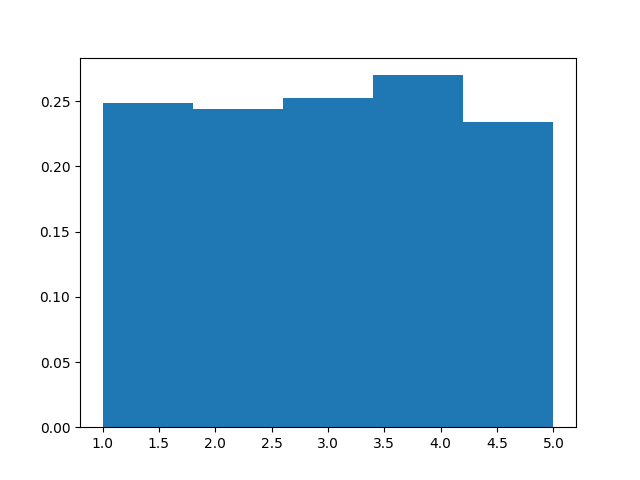
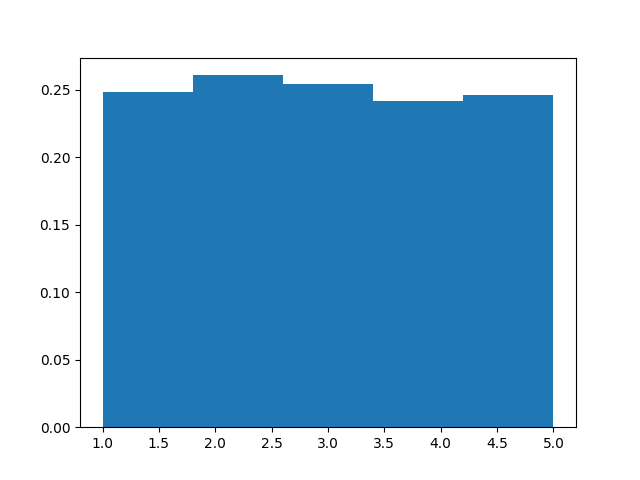
Try ChiSquared for Braverman

diff --git a/ex25_.py b/ex25_.py
@@ -1,0 +1,93 @@
+import random
+import matplotlib.pyplot as plt
+import scipy.stats
+
+class Bucket: # basically Vitter
+    def __init__(self):
+        self.idx = None
+        self.val = None
+        self.viewed = 0
+
+    def onGet(self, z):
+        self.viewed += 1
+        if random.random() <= (1 / self.viewed):
+            self.idx = self.viewed
+            self.val = z
+
+    def readData(self):
+        return self.idx, self.val
+    
+
+class Window:
+    def __init__(self, window_size):
+        self.partial = Bucket()
+        self.active = None
+        self.window_size = window_size
+
+    def onGet(self, z):
+        self.partial.onGet(z)
+        if self.partial.viewed == self.window_size: # Partial becomes active, new partial is created
+            self.active = self.partial
+            self.partial = Bucket()
+
+    def readData(self):
+        if self.active is None: # case for first n elements
+            (_, partial_val) = self.partial.readData()
+            return partial_val
+        else:
+            (active_idx, active_val) = self.active.readData()
+            (_, partial_val) = self.partial.readData()
+
+            if active_idx <= self.partial.viewed:
+                return partial_val
+            else:
+                return active_val
+            
+    def readIdx(self):
+        if self.active is None: # case for first n elements
+            (partial_idx, _) = self.partial.readData()
+            return partial_idx - 1
+        else:
+            (active_idx, _) = self.active.readData()
+            (partial_idx, _) = self.partial.readData()
+
+            if active_idx <= self.partial.viewed:
+                return (partial_idx - 1) + (self.window_size - self.partial.viewed)
+            else:
+                return (active_idx - 1) - self.partial.viewed
+            
+def histogram_gen():
+    window_size = 5
+    no_tests = 100
+    stream_len = 1000
+
+    sample = []
+    for _ in range(no_tests):
+        window = Window(window_size)
+        for i in range(stream_len):
+            window.onGet(i)
+            sample.append(window.readData())
+
+    plt.hist(sample, density=True, bins=stream_len)
+    plt.xlabel('Value')
+    plt.ylabel('Probability')
+    plt.title('Distribution: window_size = 5, stream_len = 1000')
+    plt.savefig('z25.png', dpi=300)
+
+def chi_sq_test():
+    window_size = 5
+    stream_len = 10000
+    frequencies = [0] * window_size
+
+    window = Window(window_size)
+    for i in range(stream_len):
+        window.onGet(i)
+        frequencies[window.readIdx()] += 1
+
+    print(frequencies)
+    (chi_sq, p) = scipy.stats.chisquare(frequencies)
+    print("Chi_square stat: {}, p_value: {}".format(chi_sq, p))
+
+if __name__ == "__main__":
+    histogram_gen()
+    chi_sq_test()

diff --git a/braverman.py b/braverman.py
@@ -3,7 +3,7 @@ import random
 import numpy as np
 import matplotlib.pyplot as plt
 from math import sqrt
-from scipy.stats import chisquare
+from scipy.stats import chisquare, chi2
 
 class SlidingWindow:
     def __init__(self, k: int):
@@ -12,17 +12,18 @@ class SlidingWindow:
         self.c = 0
         self.elem = None
         # self.sample = []
+        self.freq = []
         self.treewidth = "Twinwidth"
     
     def read(self, x):
         self.n += 1
         if random.random() < 1.0/float(self.n):
         # if random.random() < 1.0/sqrt(self.n):
-        # if random.random() < 1.0/():
             self.elem = x
             self.c = self.n
             # self.sample.append(self.c)
             # self.sample.append(self.elem)
+        self.freq.append(self.n - self.c + 1)
         self.n %= self.k
     
     def get(self):
@@ -30,6 +31,9 @@ class SlidingWindow:
     
     # def get_sample(self):
     #     return self.sample
+
+    def frequencies(self):
+        return self.freq
     
     def clear(self):
         self.n = 0
@@ -57,8 +61,26 @@ def check_correctness(n: int, k: int, iter: int):
                 sample.append(single_sample[1])
         # sample += sw.get_sample()
         # sw.clear()
-    print(sample)
-    histogram(sample, k)
+
+    # print(sample)
+    # histogram(sample, k)
+
+    # chi2, p = chisquare(sample)
+    # chi2, p = chisquare(sample, ddof=4)
+    # print(chi2)
+    # print(p)
+    # print(chi2.ppf(sample, 4))
+    freq_dict = dict()
+    for i in range(1, k+1):
+        freq_dict[i] = 0
+    for j in sw.frequencies():
+        freq_dict[j] += 1
+    frequencies = list(freq_dict.values())
+    print(frequencies)
+    chi2, p = chisquare(frequencies)
+    # chi2, p = chisquare(frequencies, ddof=4)
+    print(chi2)
+    print(p)
 
 
 
